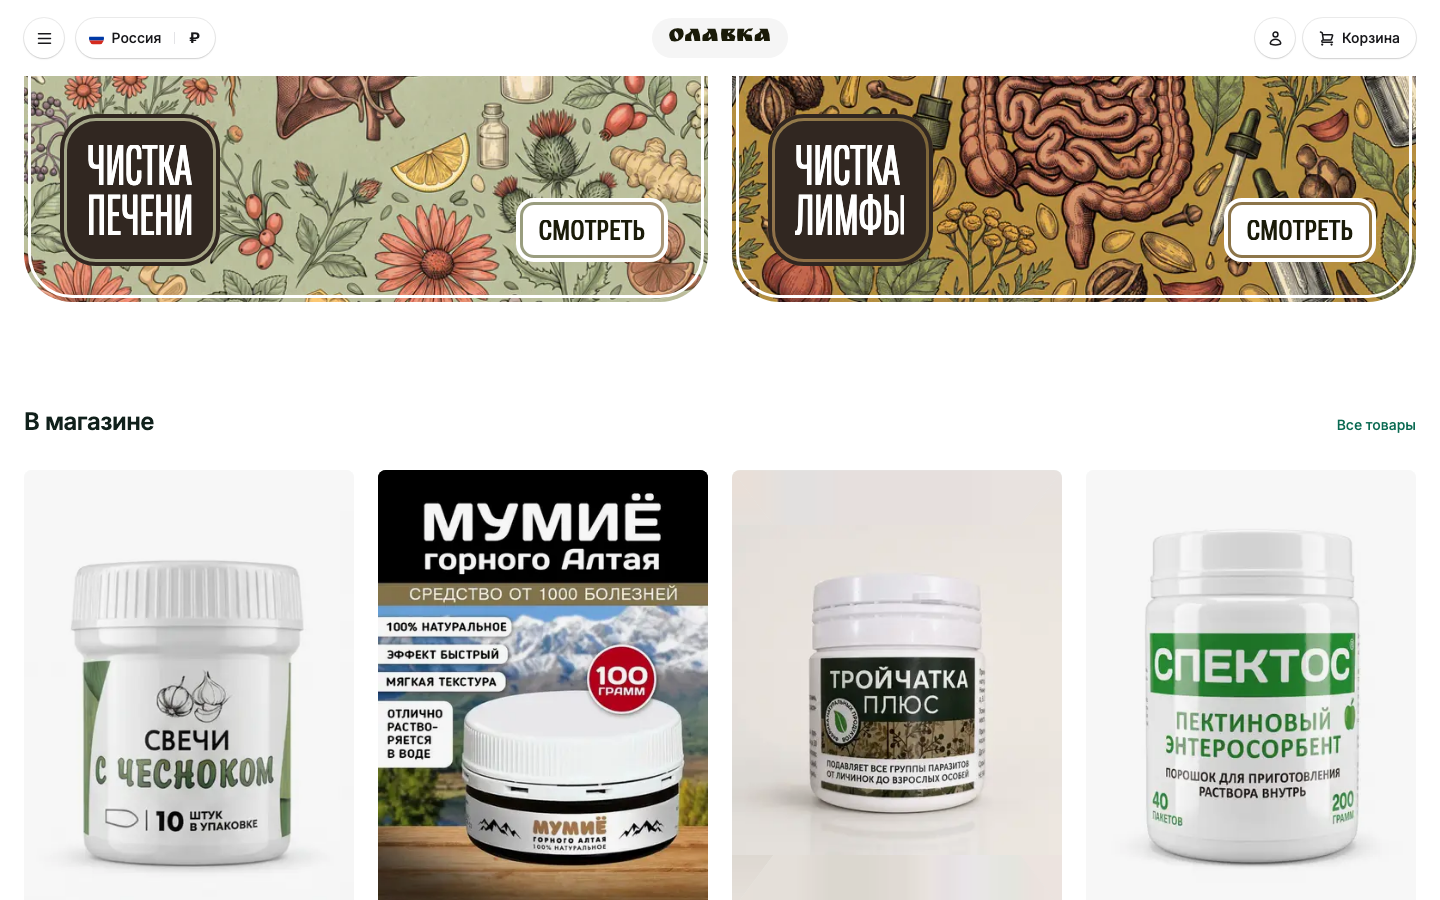
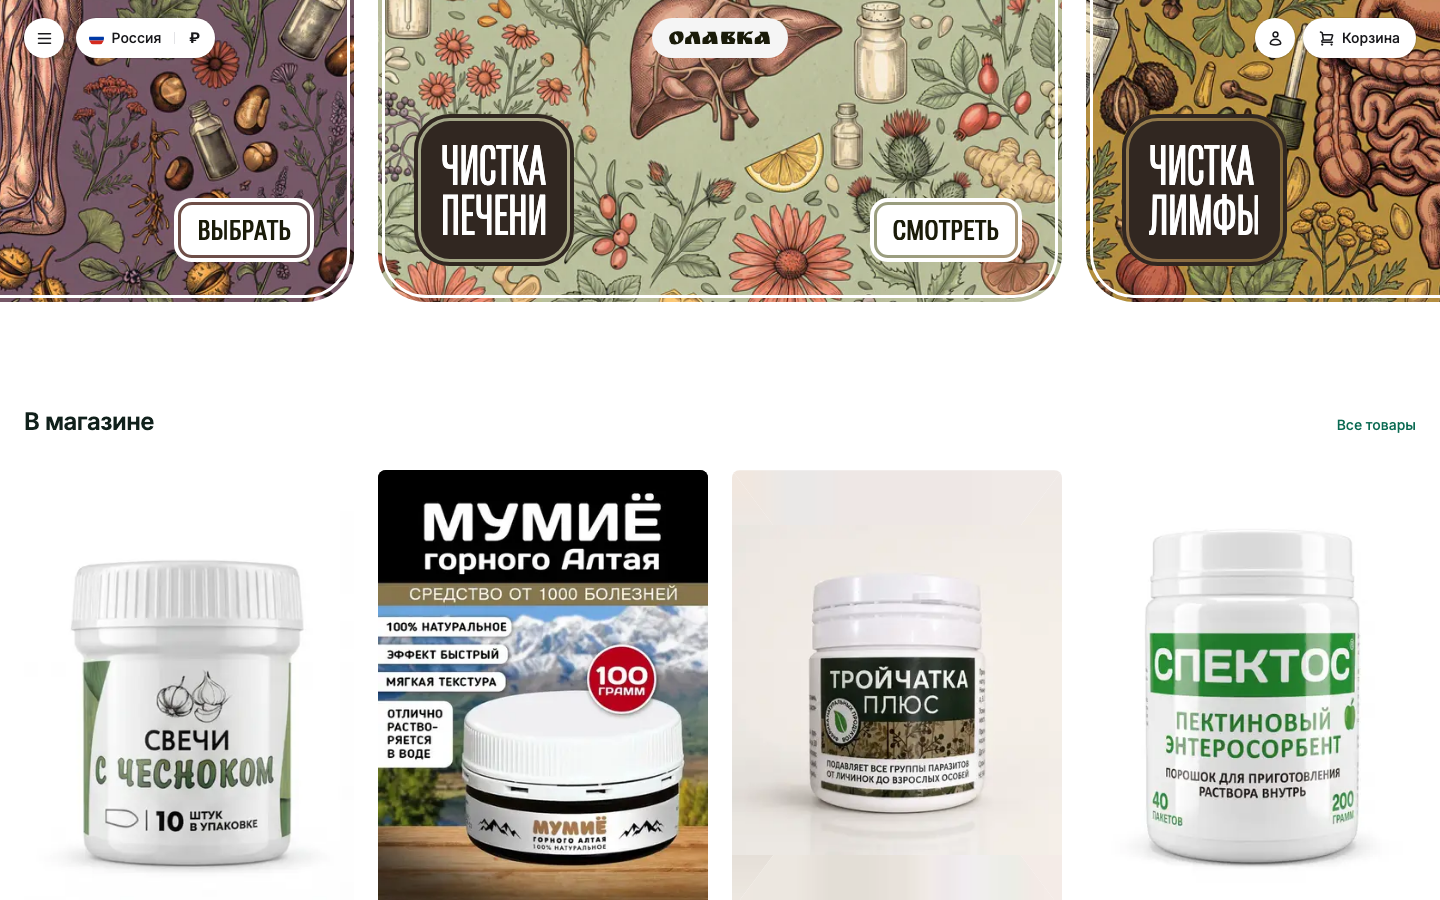
fix(storefront): header bar without fill, wordmark caps on the controls' centre (t-2026-09-24-n15)
Ivan's remark 7: 1.1 the bar and its sticky wrapper lose their white fill (the
node frame's #ffffff is the component backdrop), pills and discs keep theirs;
1.2 the wordmark text sits in a block trimmed to the cap height (text-box does
not apply to the flex link), with a 0.209em metric fallback from Ruslan
Display's ascent 0.688 / descent 0.397 / cap 0.5. Caps centre − controls centre
0 … −0.37px at 1216/720/360 in both states and themes. Evidence: pixel pairs,
header/ and header-scrolled/ re-shot, report.md section «Remark 7».

Changed region(s): [[0.0, 0.0, 1.0, 0.3422]]

diff --git a/apps/storefront/src/modules/layout/templates/nav/variants/h7.module.css b/apps/storefront/src/modules/layout/templates/nav/variants/h7.module.css
@@ -1,8 +1,8 @@
 /*
  * H7 · Olavka header (t-2026-09-24-n15), Figma 227:9557 «Header», `Scrolled=false`
- * (values from `w15-cache-nodes2.json`): bar #ffffff with no visible bottom line (the
- * node's 0.5px stroke is hidden), ink #18181b, wordmark #1a1b09. In the dark mode the
- * bar follows the theme's own tokens.
+ * (values from `w15-cache-nodes2.json`): a bar with no fill (Ivan's remark 7.1.1) and no
+ * visible bottom line (the node's 0.5px stroke is hidden), ink #18181b, wordmark #1a1b09.
+ * In the dark mode the controls follow the theme's own tokens.
  */
 
 .root {
@@ -21,7 +21,9 @@
   --h7-wordmark: #1a1b09;
   --h7-ring: rgba(0, 0, 0, 0.08);
   height: 53px;
-  background: var(--h7-surface);
+  /* No fill of its own (Ivan's remark 7.1.1): the page shows through, the pills, discs and
+     the logo pill keep theirs. The node frame's #ffffff fill is the component's backdrop. */
+  background: transparent;
   color: var(--h7-ink);
 }
 
@@ -143,13 +145,34 @@
   padding: 0 16px;
   font-family: var(--font-olavka-wordmark), serif;
   font-size: min(32px, calc((100cqi - 32px) / (var(--wm-chars, 6) * 0.72)));
-  line-height: 1.085;
+  line-height: 1;
   font-weight: 400;
   color: var(--h7-wordmark);
   text-decoration: none;
   white-space: nowrap;
-  /* The node's text box is the cap height (32px → 16), centred in the 40px logo box. */
+}
+
+/* The node's text box is the cap height (`leadingTrim: CAP_HEIGHT`, 32px → 16) centred in
+   the 40px logo box, so the caps' centre is the controls' centre (Ivan's remark 7.1.2).
+   Trimming applies to a block, not to the flex link, hence this block of its own. */
+.wordmarkText {
+  display: block;
   text-box: trim-both cap alphabetic;
+}
+
+/* No cap trimming (older Safari / Firefox): Ruslan Display's line box is ascent 0.688 +
+   descent 0.397, cap height 0.5 (read from the font), so the caps' centre stands
+   (0.688 − 0.397 − 0.5) / 2 = 0.1045em above the line's centre; a 0.209em top padding
+   moves it down onto the centre of the flex box. */
+@supports not (text-box: trim-both cap alphabetic) {
+  .wordmarkText {
+    padding-top: 0.209em;
+  }
+}
+
+/* An uploaded logo image is centred as a box, no text metrics. */
+.wordmarkText:has(img) {
+  display: contents;
 }
 
 /* Tablet 235:16409 / mobile 235:16816. */

diff --git a/apps/storefront/src/modules/layout/templates/nav/variants/h7.tsx b/apps/storefront/src/modules/layout/templates/nav/variants/h7.tsx
@@ -91,7 +91,9 @@ export default async function NavH7() {
                 style={wordmarkStyle}
                 data-testid="nav-store-link"
               >
-                <SiteLogo siteName={siteName} branding={branding} />
+                <span className={styles.wordmarkText}>
+                  <SiteLogo siteName={siteName} branding={branding} />
+                </span>
               </Link>
             </BrandUnlock>
           </div>
@@ -119,7 +121,9 @@ export default async function NavH7() {
                 style={wordmarkStyle}
                 data-testid="nav-store-link-compact"
               >
-                <SiteLogo siteName={siteName} branding={branding} />
+                <span className={styles.wordmarkText}>
+                  <SiteLogo siteName={siteName} branding={branding} />
+                </span>
               </Link>
             </BrandUnlock>
           </div>

diff --git a/apps/storefront/docs/evidence/t-2026-09-24-n15/report.md b/apps/storefront/docs/evidence/t-2026-09-24-n15/report.md
@@ -209,3 +209,43 @@ gallery (`flat`) is unchanged. `product-card-bg/<page>-<width>-<theme>-{before,a
 | store 1216 / 360 light | #e6edea | #ffffff | #ffffff | #ffffff |
 | store 1216 / 360 dark | #212c28 | #0a1310 | #0a1310 | #0a1310 |
 | home 1216 / 360 dark | #ffffff | #ffffff | #0a1310 | #ffffff — the first product's photo has its own white background (in the file, not a veil) |
+
+## Remark 7 · header: no white bar, the wordmark on the controls' centre (Ivan 2026-09-25)
+
+«1.1. Нужно убрать белый фон 1.2. надпись ОЛАВКА нужно выровнять по вертикальному центру относительно других
+элементов в хедере» — desktop, tablet, mobile, both states.
+
+**1.1** The bar's fill was removed per remark 1.1; in the nodes the frame had a white fill (227:9200, 227:9549,
+235:16409, 235:16802, 235:16816, 238:16965 — SOLID #ffffff, the component's backdrop). `.bar` and the sticky
+wrapper `#nav-h7` are `rgba(0,0,0,0)` in both states and both themes; the burger disc, the pills, the icon pill
+and the wordmark pill keep their fills and shadows. Scrolled, the page shows between the pills.
+
+**1.2** Cause: the wordmark is an `inline-flex` link, and `text-box` does not apply to a flex container, so the
+link's line kept Ruslan Display's ascent 0.688 / descent 0.397 (cap height 0.5, read from the font in the
+browser) — the caps' centre stood (0.688 − 0.397 − 0.5) / 2 = 0.1045em above the box's centre: 3.3px at 32px.
+Fix: the text sits in a block of its own (`.wordmarkText`) trimmed to the cap height (`text-box: trim-both cap
+alphabetic`, line-height 1) and centred by the 40px box; where trimming is not supported, a 0.209em top padding
+(the same metrics) moves the caps' centre onto the box's. An uploaded logo image is not touched (`:has(img)`).
+
+Measured on glyph pixels at dpr 4 (quarter-pixel), caps centre − controls centre (burger disc on desktop, the
+icon row on tablet / mobile; scrolled, also the wordmark pill's centre — the same number):
+
+| Width · state | Node: caps centre / controls centre | Render light: caps / controls, Δ | Render dark, Δ | No-`text-box` path, Δ |
+|---|---|---|---|---|
+| 1216 top | 37.5 / 38 | 38 / 38, **0** | −0.12 | −1 (baseline snapped to a whole pixel) |
+| 1216 scrolled | 37.5 / 38 | 37.88 / 38, **−0.12** | −0.12 | −0.12 |
+| 720 top | 28.5 / 29 | 28.88 / 29, **−0.12** | 0 | −0.12 |
+| 720 scrolled | 28 / 28 (bar 56) | 28.88 / 29, **−0.12** (bar 57) | −0.12 | −0.12 |
+| 360 top | 26 / 26 | 25.63 / 26, **−0.37** | −0.37 | −0.37 |
+| 360 scrolled | 26 / 26 | 25.63 / 26, **−0.37** | −0.37 | −0.37 |
+| before the fix, 1216 top (Ivan's #24) | | ≈ −3.3 by the metrics | | |
+
+The node itself sets the caps 0.5px above the controls' centre on desktop and tablet (37.5 vs 38); the render
+follows Ivan's rule (centres equal), so against the node it is +0.5 there. The no-`text-box` column is Chromium
+with `text-box` switched off and the padding on, standing in for browsers without cap trimming.
+
+Pairs (`pixel/`): `<device>-header-{figma,render,overlay}` (top, mean |Δ| 2.5 / 2.3 / 3.9, before 4.8 / 5.3 / 11.8),
+`<device>-header-scrolled-*` (scrollY 300: the banners show through the bar where the frame is white, mean |Δ|
+106.1 / 89.6 / 70.4 — the backdrop, not the controls), `<device>-header-scrolled-onwhite-*` (the scrolled skin
+over the white page top, mean |Δ| 2.6 / 3.6 / 4.1, before 3.7 / 4.9 / 10.0). Rule 27f: `header/`,
+`header-scrolled/` at 1440 / 768 / 390 light + dark, re-shot.
